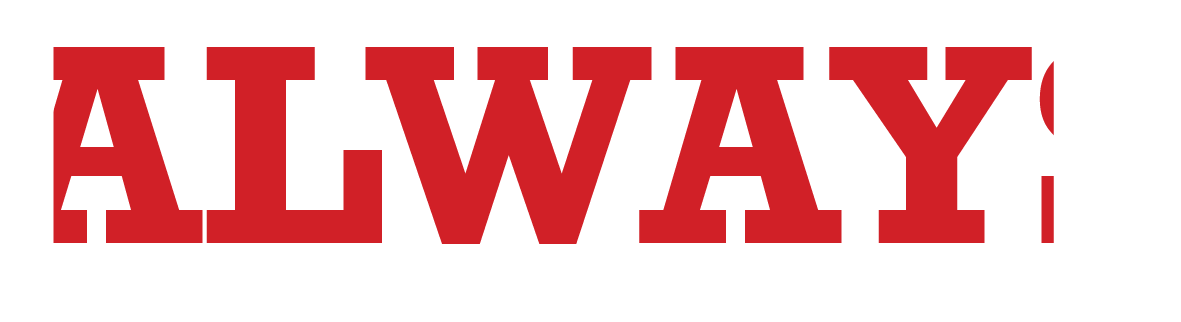
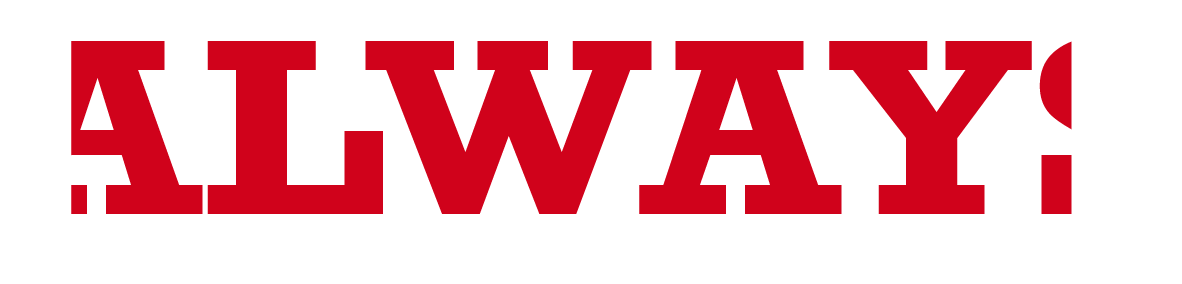
click-click

diff --git a/click_click_code/style.css b/click_click_code/style.css
@@ -10,6 +10,7 @@ body {
 	overflow-x:hidden;
 
 	width:100vw;
+	height: 100vh;
 }
 
 
@@ -19,7 +20,11 @@ filter:drop-shadow(8px 8px 10px gray) hue-rotate(-70deg);
 }
 
 .maintext
-{width:1600px;}
+{
+/*	width:1600px;*/
+width: 150%;
+height: auto;
+}
 
 .maintext2
 {width:1700px;}
@@ -70,12 +75,29 @@ left:650px;
 {position:absolute;
 top:300px;
 left:1px;
+margin-left:-70px;
+}
+
+.background-image {
+	height: 100vh;
+	width: 100vw;
+	z-index: 100;
+	display: none;
+}
+
+/*#perhaps:hover ~ .background-image {
+	display: block;
+/*	background-color: blue;
+*/	background-image: url("pngs/perhaps.png");
+	background-repeat: repeat;
+	/*cursor: progress; */
+
 }
 
  #first {
 position:absolute;
-top:400px;
-left:1000px;
+top:300px;
+left:100px;
 
  }
 
@@ -84,6 +106,14 @@ left:1000px;
 {position:absolute;
 top:700px;
 left:1px;
+}
+
+#but:hover ~ .background-image {
+	display: block;
+/*	background-color: blue;
+*/	background-image: url("pngs/but.png");
+	background-repeat: repeat;
+	/*cursor: progress; */
 }
 
 #second
@@ -98,6 +128,7 @@ left:200px;
 {position:absolute;
 top:1000px;
 left:10px;
+margin-left:-112px;
 }
 
 #third
@@ -128,6 +159,7 @@ left:1200px;
 {position:absolute;
 top:1400px;
 left:0px;
+margin-left:-110px;
 }
 
 #fifth

diff --git a/click_click_code/index.html b/click_click_code/index.html
@@ -2,11 +2,10 @@
 <html>
 	<head>
 		<link rel='stylesheet' href='style.css'>
-		<link rel='icon' href='click_click_code/pngs/envelope2.png' type="image/x-icon"/>
+		<link rel='icon' href='pngs/envelope2.png' type="image/x-icon"/>
 	</head>
 
 	<body>
-
 	    <img id='logo' src='pngs/logo.png'>
 	    <img id='homage' src='pngs/homage.png'>
 	    
@@ -45,6 +44,7 @@
 		<a id='neither' href='neither.html'><img class='maintext3' src='pngs/neither.png'></a>
 
 		<img id='sixth' src='pngs/sixth.png'>
+	 	<div class="background-image"></div>
 	</body>	
 
 
